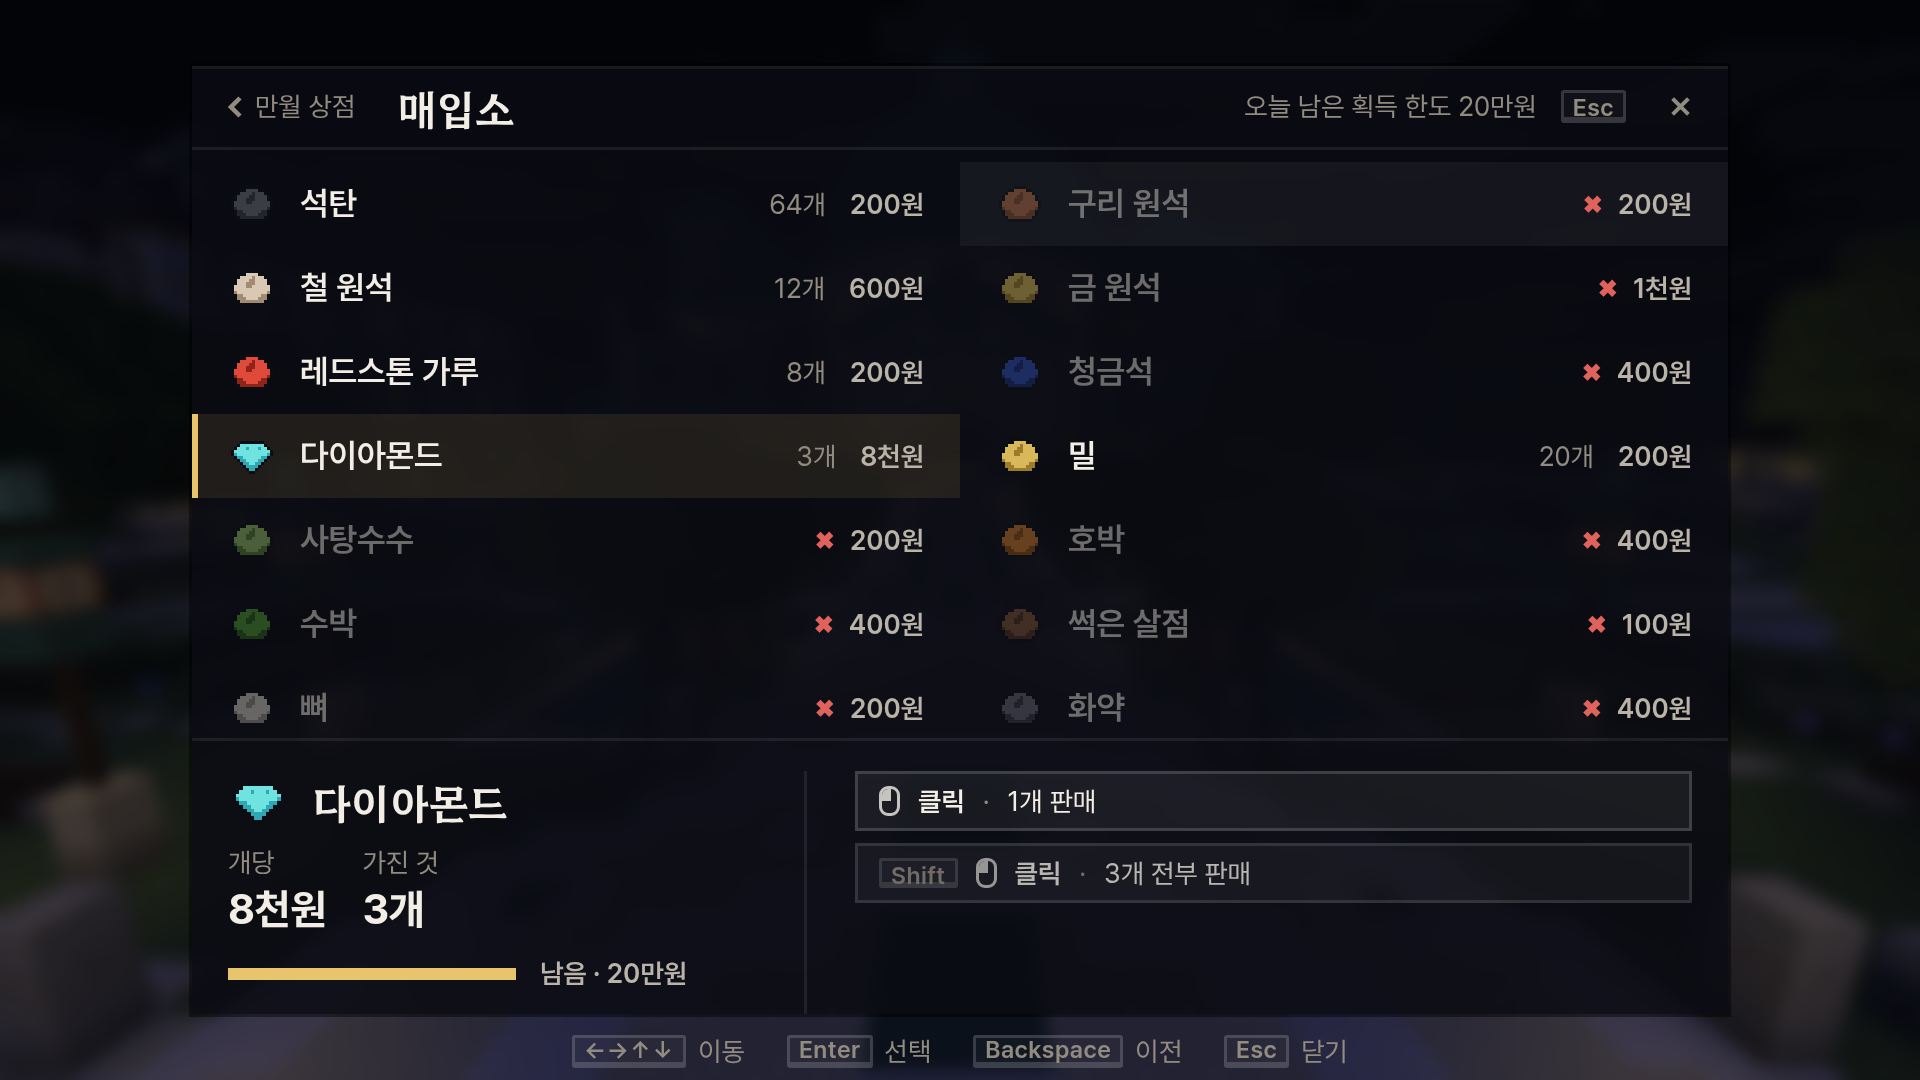
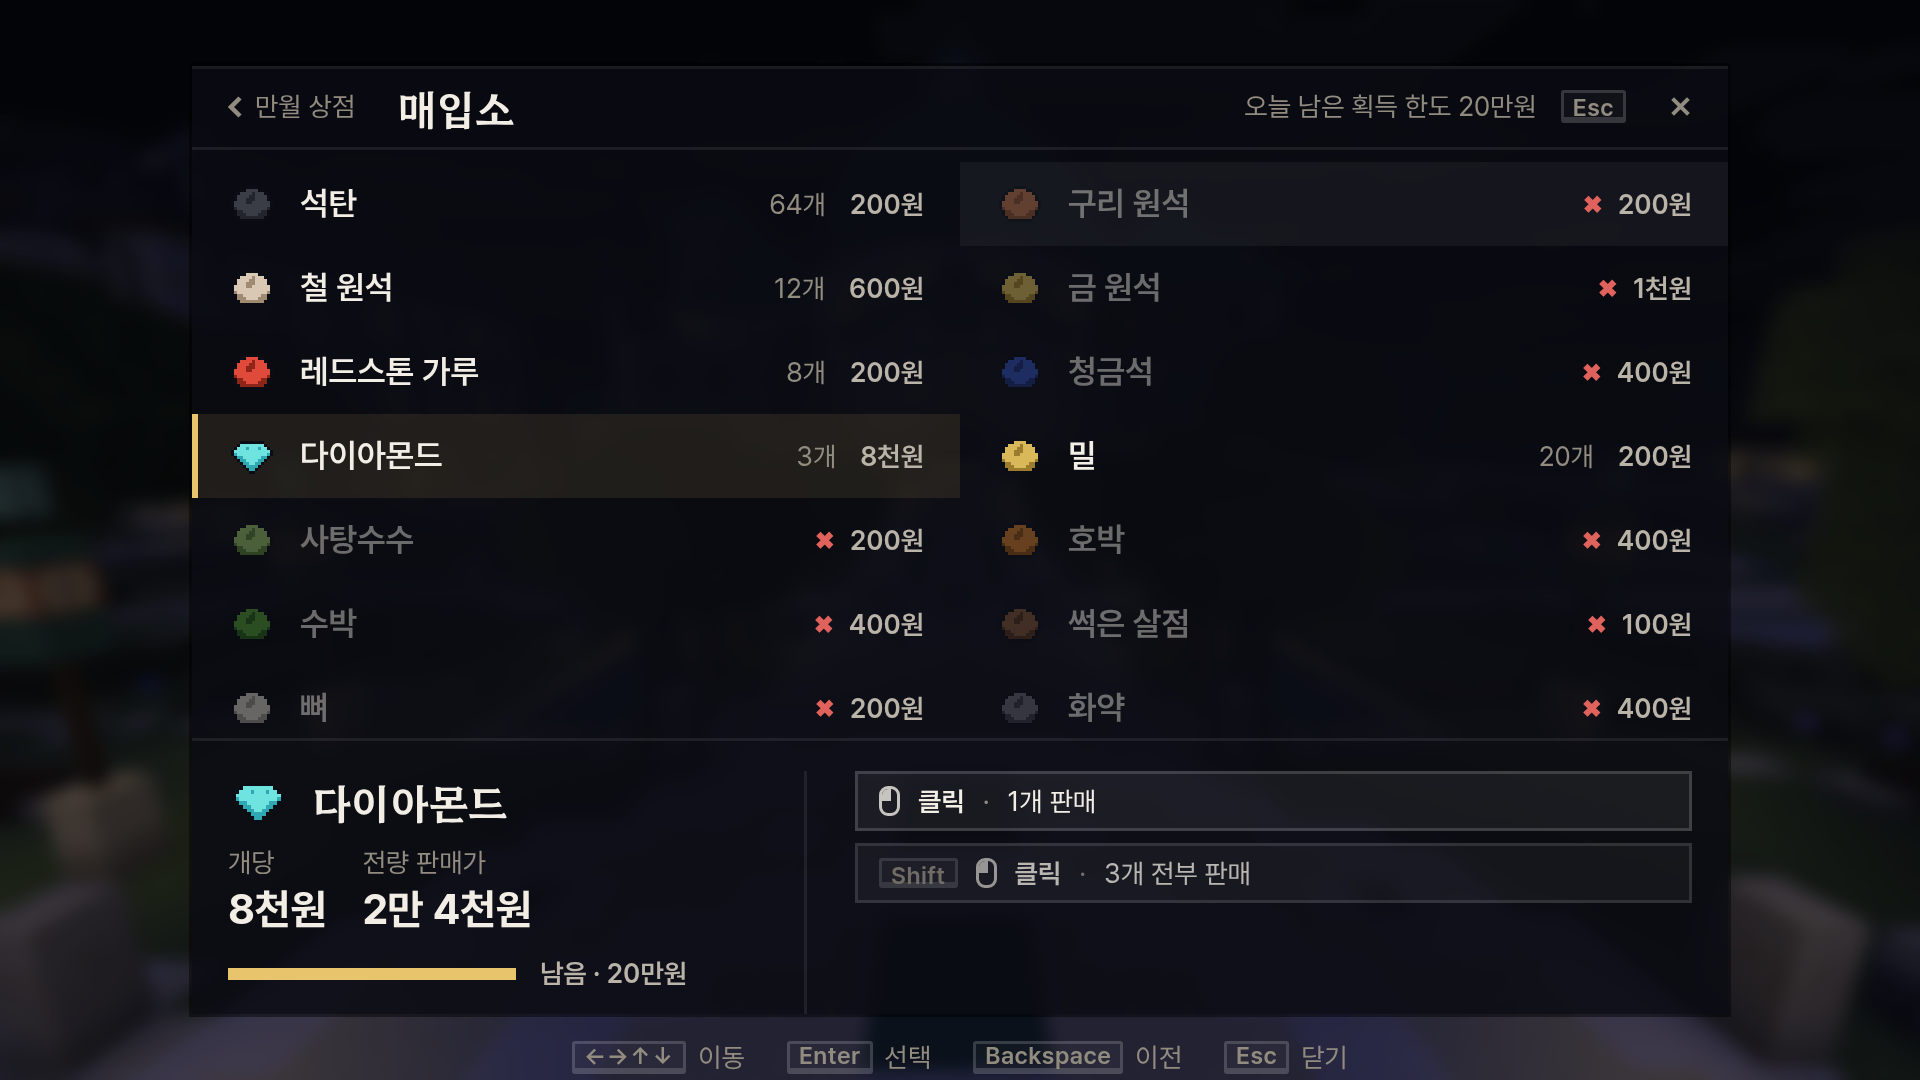
docs(i3): phase B round 3 — run-5 pairs for the card, HUD, route and M1; sell mock settled; title mock [skip ci]

diff --git a/i3/docs/DEVLOG.md b/i3/docs/DEVLOG.md
@@ -1246,3 +1246,16 @@ the browser build reports every server unreachable.
 - 실캡처는 아직 없다. 4차 캡처의 `casino-card`·`route`가 일시정지 메뉴였던 원인은 하네스(`/guild` 뒤의
   Esc)였고 고쳤다. 다음 실행이 네 게임의 카드(연출 중·정착), HUD(휴식·키 눌림), 항로(선택·요청·응답)를
   찍는다. 러너 빌드 이력과 다음 단계는 `~/.local/share/fullmoon-client-redesign/phaseB/HANDOFF.md`.
+
+## 2026-09-30 — phase B round 3: run 5 pairs, two fixes, the title screen in code
+
+Run 36607805509 photographed M1–M4 for real at 1280×720 GUI 2: the result card in all twelve
+states (four games, spin / win / lose — the rig re-bets until both outcomes are seen), the HUD with
+keys held, the route screen at rest, pending and accepted, and the M1 re-shots. The 1080p pass was
+lost to the tutorial prompt arriving as a chest before the handshake; the rig now escapes past it.
+The pairs matched the mockups apart from two things, both fixed in `cb68209`: the lobby's labelled
+help line was being split as label/value, and the route list sorted a group alphabetically instead
+of keeping the server's order. The 매입소 strip keeps 전량 판매가 (the mock was changed to agree).
+The title screen (`8cca445`) now follows mock (f): veil, wordmark, one gliding list with the live
+lobby answer, tonight's moon, the foot with real versions; its captures come with the next run.
+Evidence: `i3/docs/evidence/phaseB/sheet-*.jpg`, `*-720p-pair.jpg`, `glide-route-720p.gif`.
